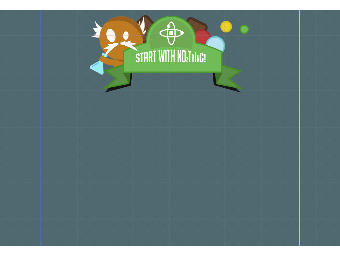
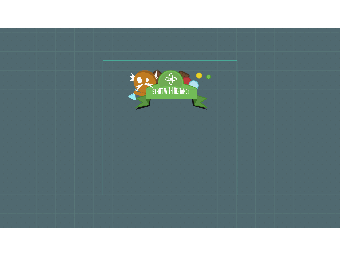
animation fiole

Changed region(s): [[0.0, 0.0312, 1.0, 0.4375], [0.0, 0.875, 1.0, 0.9688]]

diff --git a/NOThInG/src/types/Exit/oncreate.js b/NOThInG/src/types/Exit/oncreate.js
@@ -1,3 +1,5 @@
-// MContainer(this)
-// this.MContainer.addElementByCst(EL.G);
-
+this.tex = -1
+this.count = 0
+this.body = this.addChild(new PIXI.Sprite(ct.res.getTexture('Fiole', 0)))
+this.shadow = this.addChild(new ct.types.Copy())
+this.shadow.tex = 'Shadow'

diff --git a/NOThInG/src/types/Exit/ondraw.js b/NOThInG/src/types/Exit/ondraw.js
@@ -1,1 +1,3 @@
-//this.MContainer.onDraw("Exit");
+this.body.y = -10 + Math.sin(this.count / 8) * 2.5;
+this.shadow.scale.x += Math.sin(this.count / 8) * 0.01;
+this.count++;
